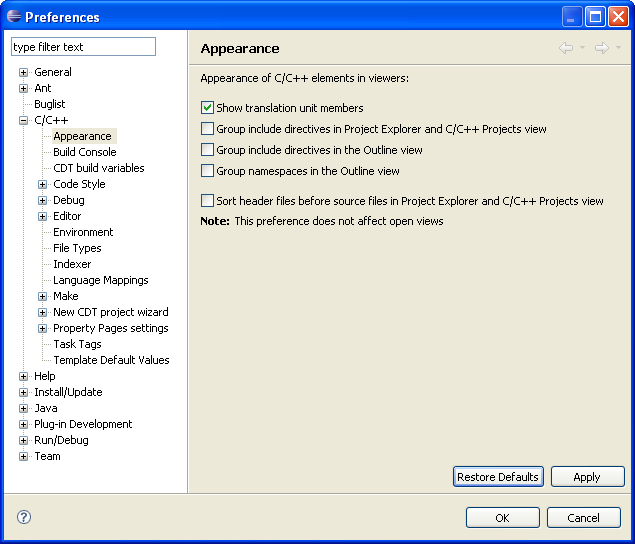
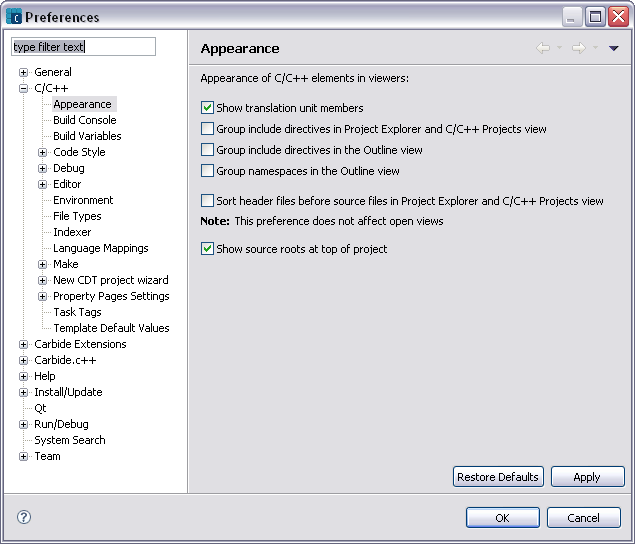
fix bug 9031 - added source root optin to table and updated image

Changed region(s): [[0.0, 0.0, 1.0, 1.0], [0.2992, 0.4375, 0.5984, 0.4688]]

diff --git a/cdt/cdt_5_0_x/org.eclipse.cdt.doc.user/reference/cdt_u_appearance_pref.htm b/cdt/cdt_5_0_x/org.eclipse.cdt.doc.user/reference/cdt_u_appearance_pref.htm
@@ -44,10 +44,14 @@
 			<td valign="top"><b>Sort header files before source files in Project Explorer and C/C++ Projects view </b></td>
 			<td valign="top">Select this option to separate header and source files in Project Explorer and C/C++ Projects view. </td>
 		</tr>
+		<tr>
+			<td valign="top"><b>Show source roots at top of project</b></td>
+			<td valign="top">Select this option to reduce the number of targeted source roots, which can reduce indexing time on large projects. Deselecting this option allows for more targeted source roots (default). Source root folders are identified by the source root icon (<img src="../images/icon_source_root.png" width="17" height="14" align="absmiddle" >).</td>
+	  </tr>
 	</tbody>
 </table>
 
-<p><img src="../images/nokia2007Copyright.png" width="255" height="14"></p>
+<p><img src="../images/nokia2009Copyright.png" width="255" height="14"></p>
 </body>
 
 </html>
